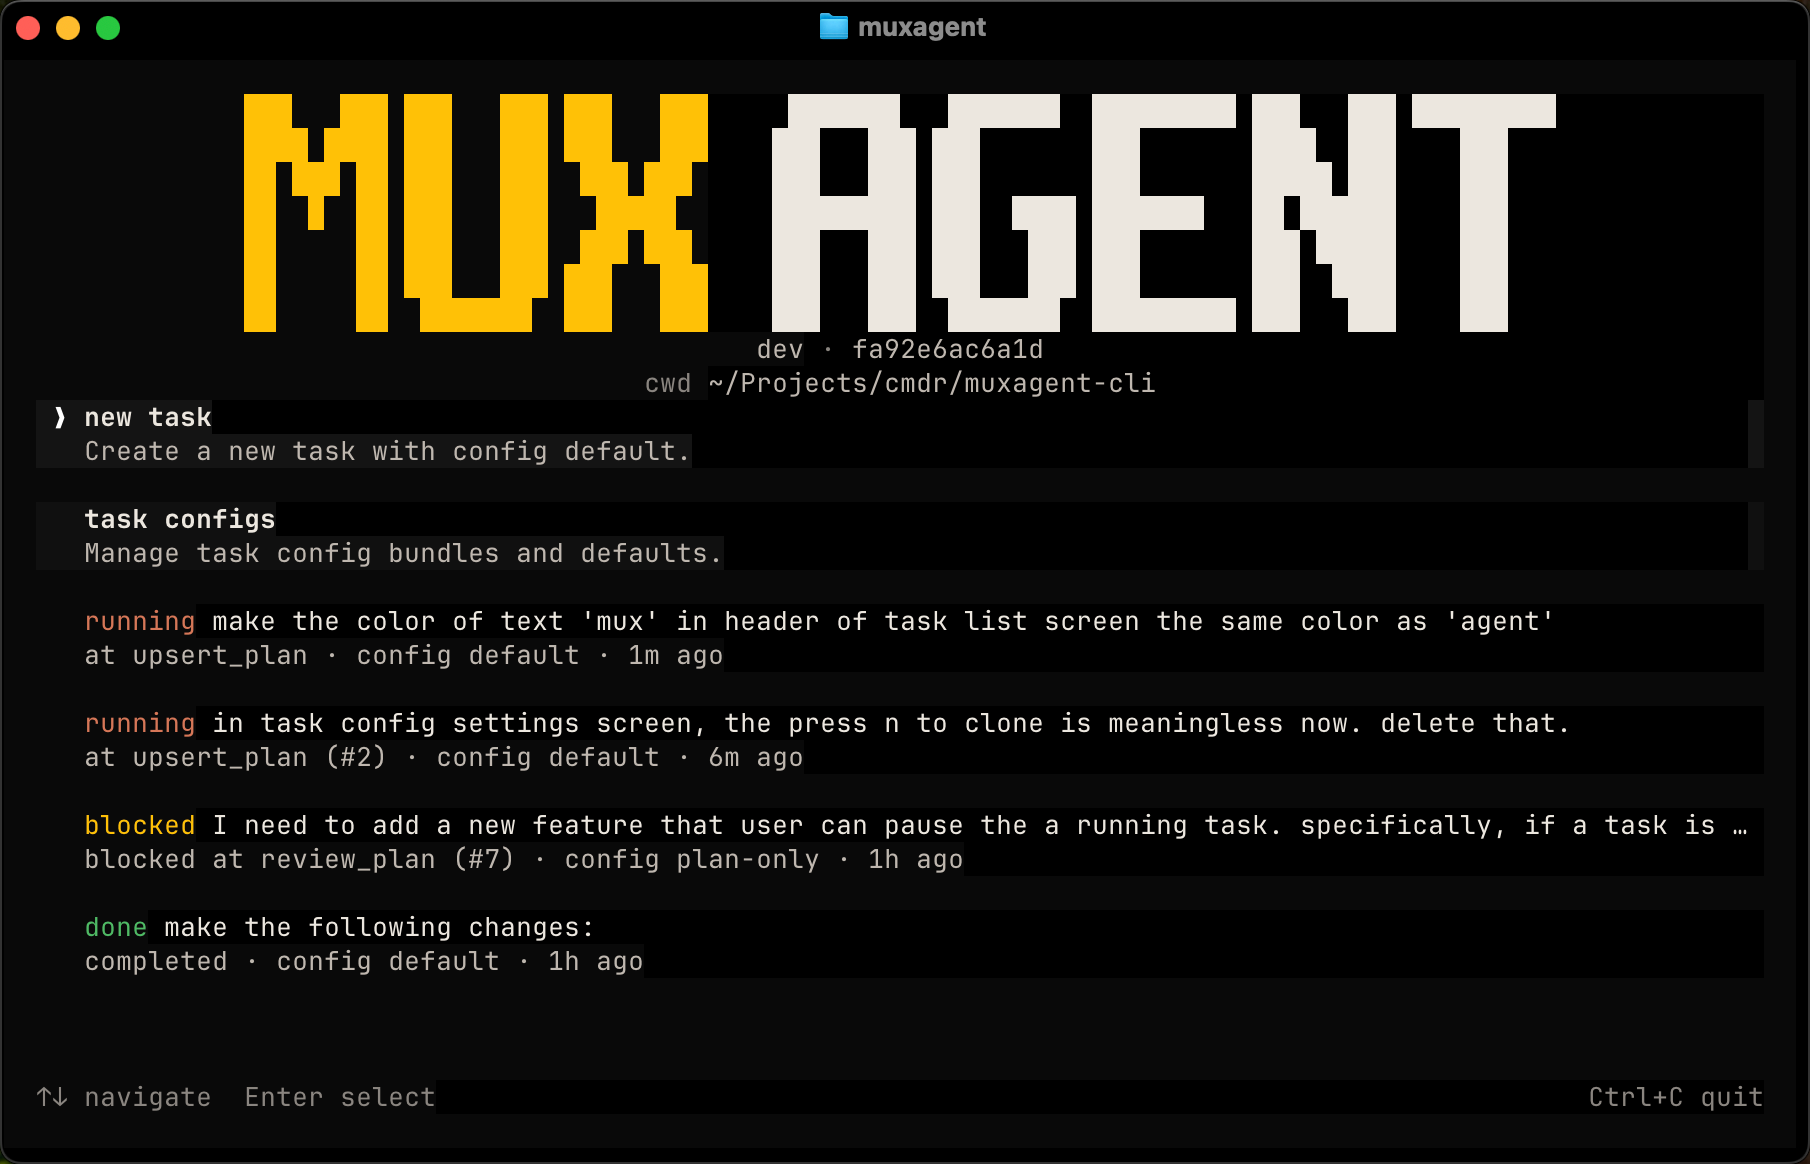
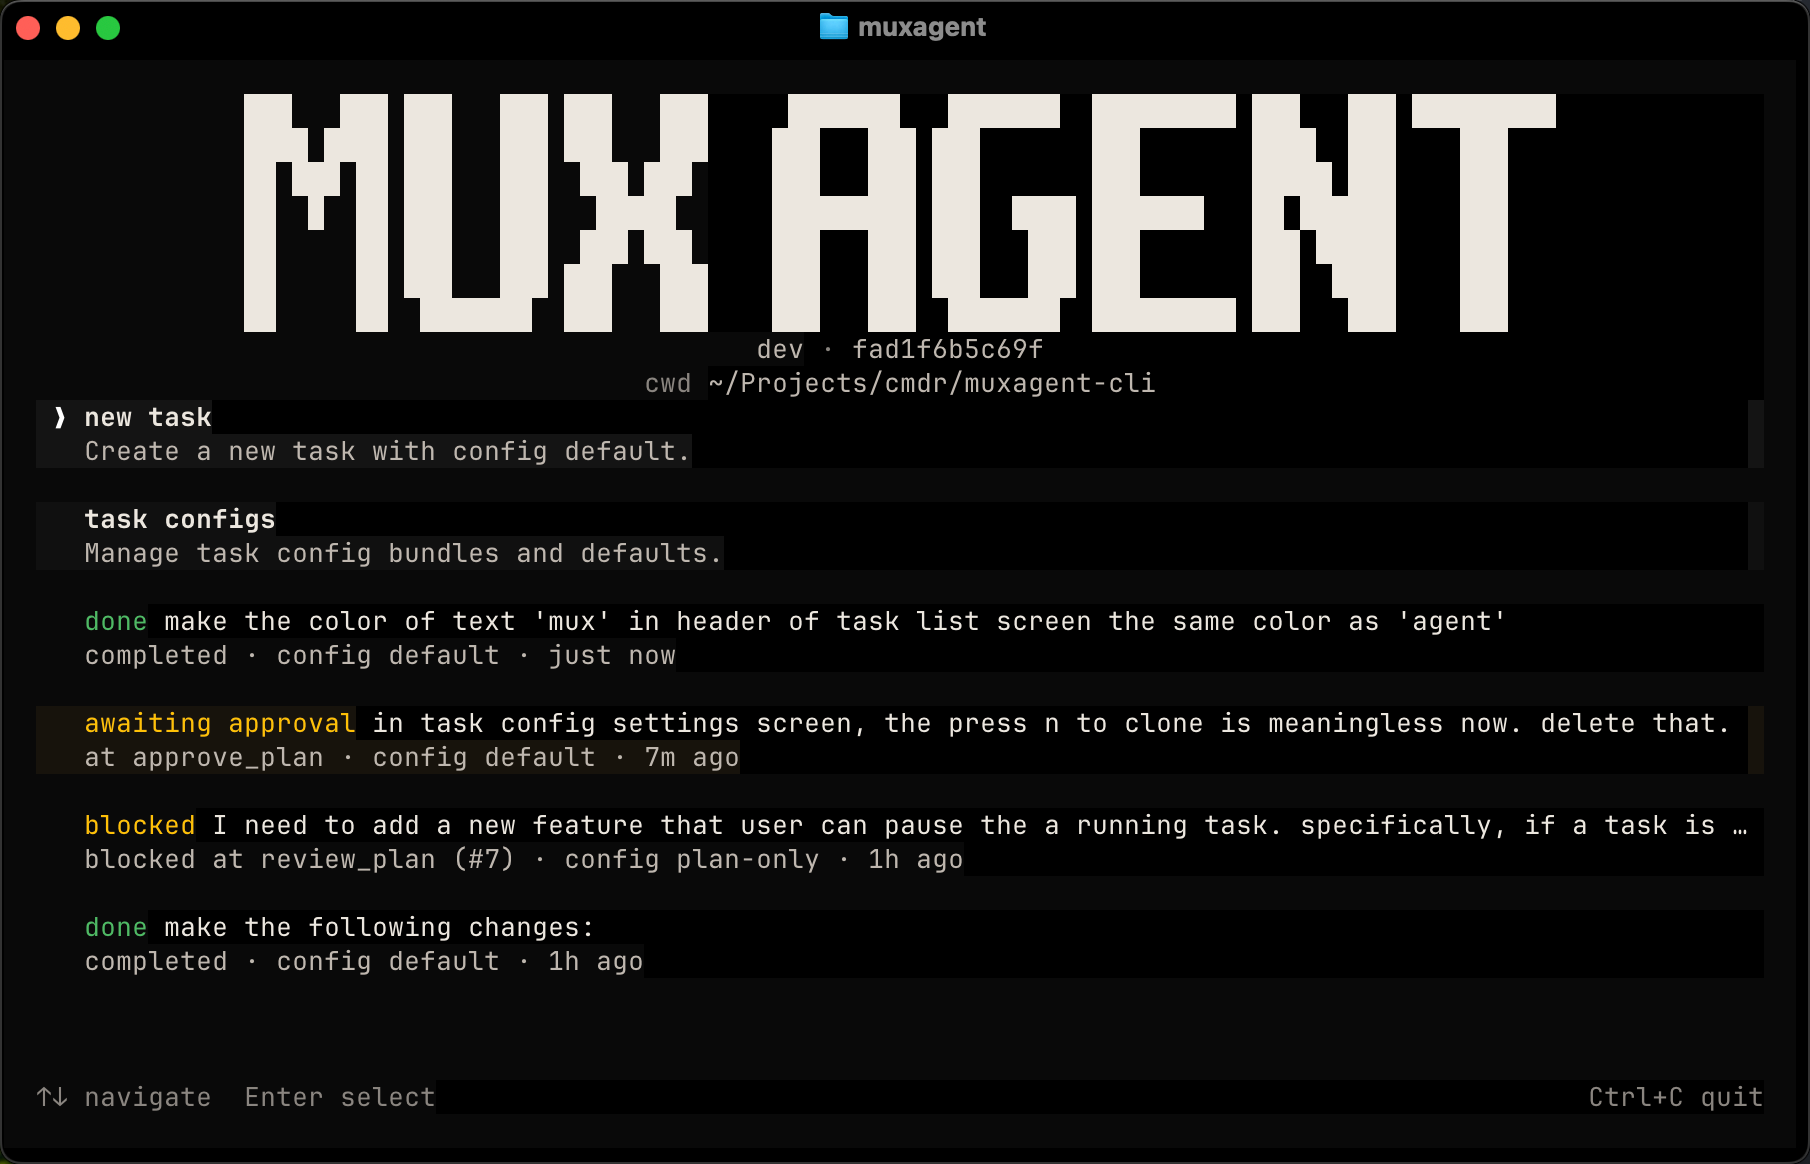
style(tasktui): unify MUX and AGENT header color
Use the same Hero style for both words in the wordmark instead of
the accent color for MUX. Update README screenshot to match.

diff --git a/internal/tasktui/new_task_test.go b/internal/tasktui/new_task_test.go
@@ -89,6 +89,39 @@ func TestTaskListCompactHeaderShowsCwdWithoutConfigOrRuntime(t *testing.T) {
 	assert.NotContains(t, header, "runtime")
 }
 
+func TestTaskListHeaderMuxMatchesAgentColor(t *testing.T) {
+	tests := []struct {
+		name    string
+		width   int
+		want    string
+		wantNot string
+	}{
+		{
+			name:    "compact",
+			width:   60,
+			want:    tuiTheme.Header.Hero.Render("MUX"),
+			wantNot: tuiTheme.Header.HeroAccent.Render("MUX"),
+		},
+		{
+			name:    "wide",
+			width:   100,
+			want:    tuiTheme.Header.Hero.Render(renderBlockGlyphRows("MUX")[0]),
+			wantNot: tuiTheme.Header.HeroAccent.Render(renderBlockGlyphRows("MUX")[0]),
+		},
+	}
+
+	for _, tt := range tests {
+		t.Run(tt.name, func(t *testing.T) {
+			service := &fakeService{events: make(chan taskruntime.RunEvent, 8)}
+			model := NewModel(service, "/tmp/project", "", nil, "v0.1.0")
+
+			header := model.renderTaskListHeader(tt.width)
+			assert.Contains(t, header, tt.want)
+			assert.NotContains(t, header, tt.wantNot)
+		})
+	}
+}
+
 func TestTaskListScreenUsesFirstLineForMultilineDescriptions(t *testing.T) {
 	service := &fakeService{events: make(chan taskruntime.RunEvent, 8)}
 	model := NewModel(service, "/tmp/project", "", nil, "v0.1.0")

diff --git a/internal/tasktui/task_list_header.go b/internal/tasktui/task_list_header.go
@@ -50,7 +50,7 @@ func renderCompactTaskListHeader(width int, meta versionMeta, cwd string) string
 	hero := centerHeaderLine(
 		lipgloss.JoinHorizontal(
 			lipgloss.Top,
-			tuiTheme.Header.HeroAccent.Render("MUX"),
+			tuiTheme.Header.Hero.Render("MUX"),
 			tuiTheme.Header.Hero.Render("AGENT"),
 		),
 		width,
@@ -68,7 +68,7 @@ func renderTaskListWordmark(width int) string {
 	agentRows := renderBlockGlyphRows("AGENT")
 	lines := make([]string, len(muxRows))
 	for i := range muxRows {
-		lines[i] = tuiTheme.Header.HeroAccent.Render(muxRows[i]) +
+		lines[i] = tuiTheme.Header.Hero.Render(muxRows[i]) +
 			"    " +
 			tuiTheme.Header.Hero.Render(agentRows[i])
 	}
